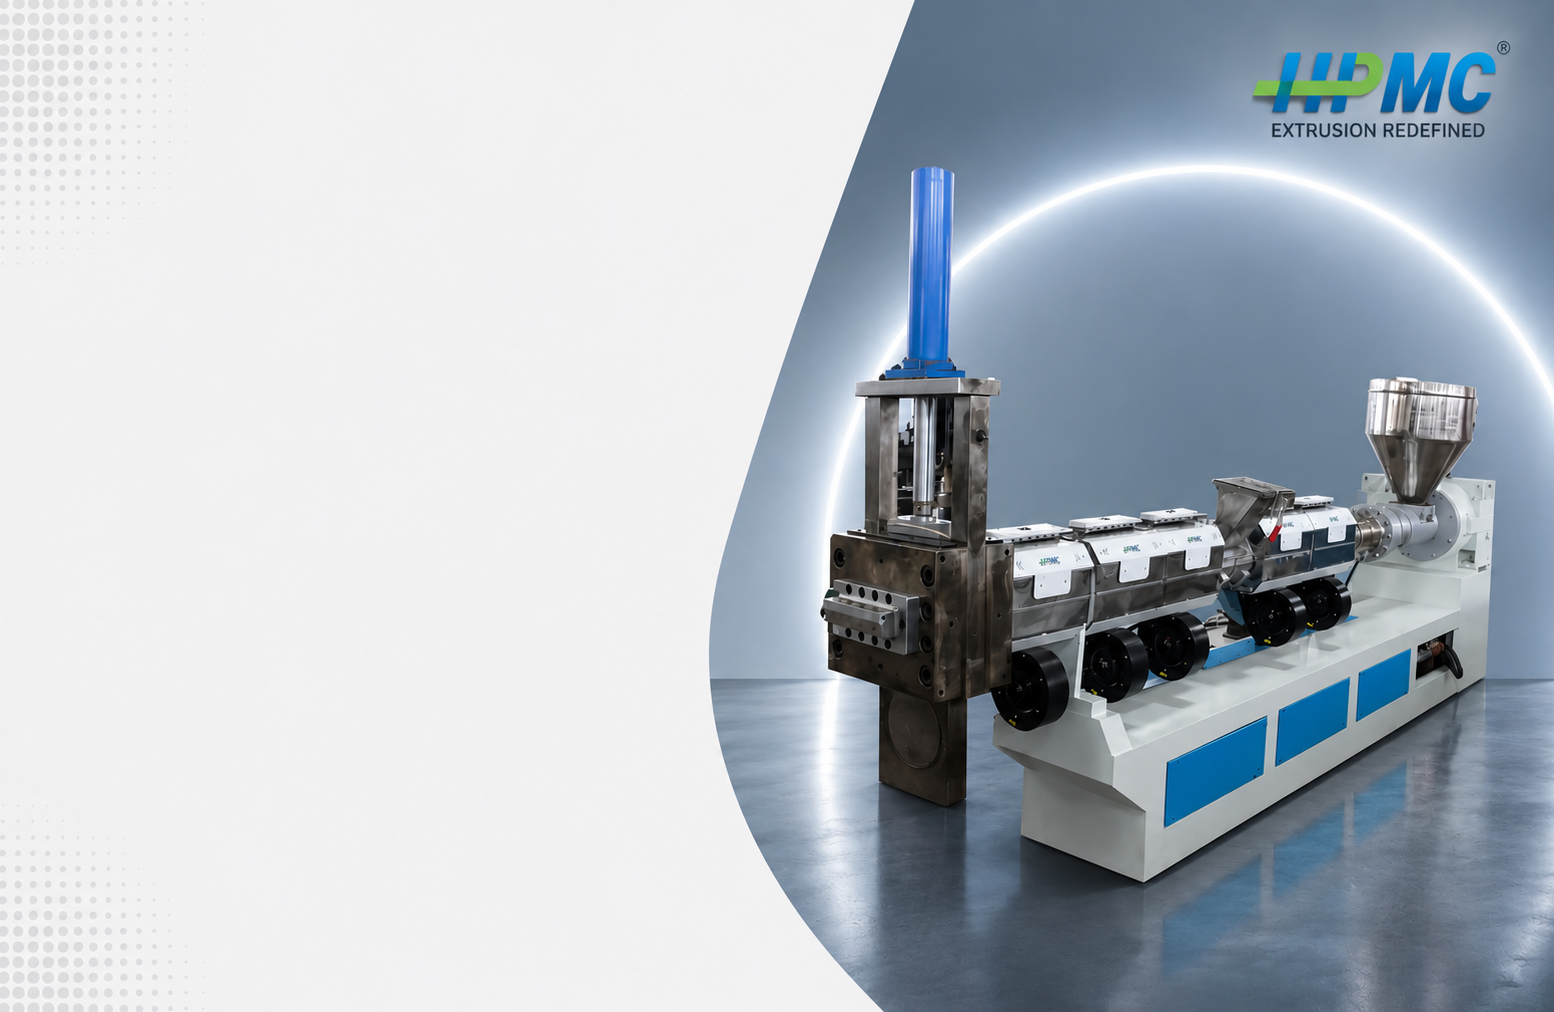
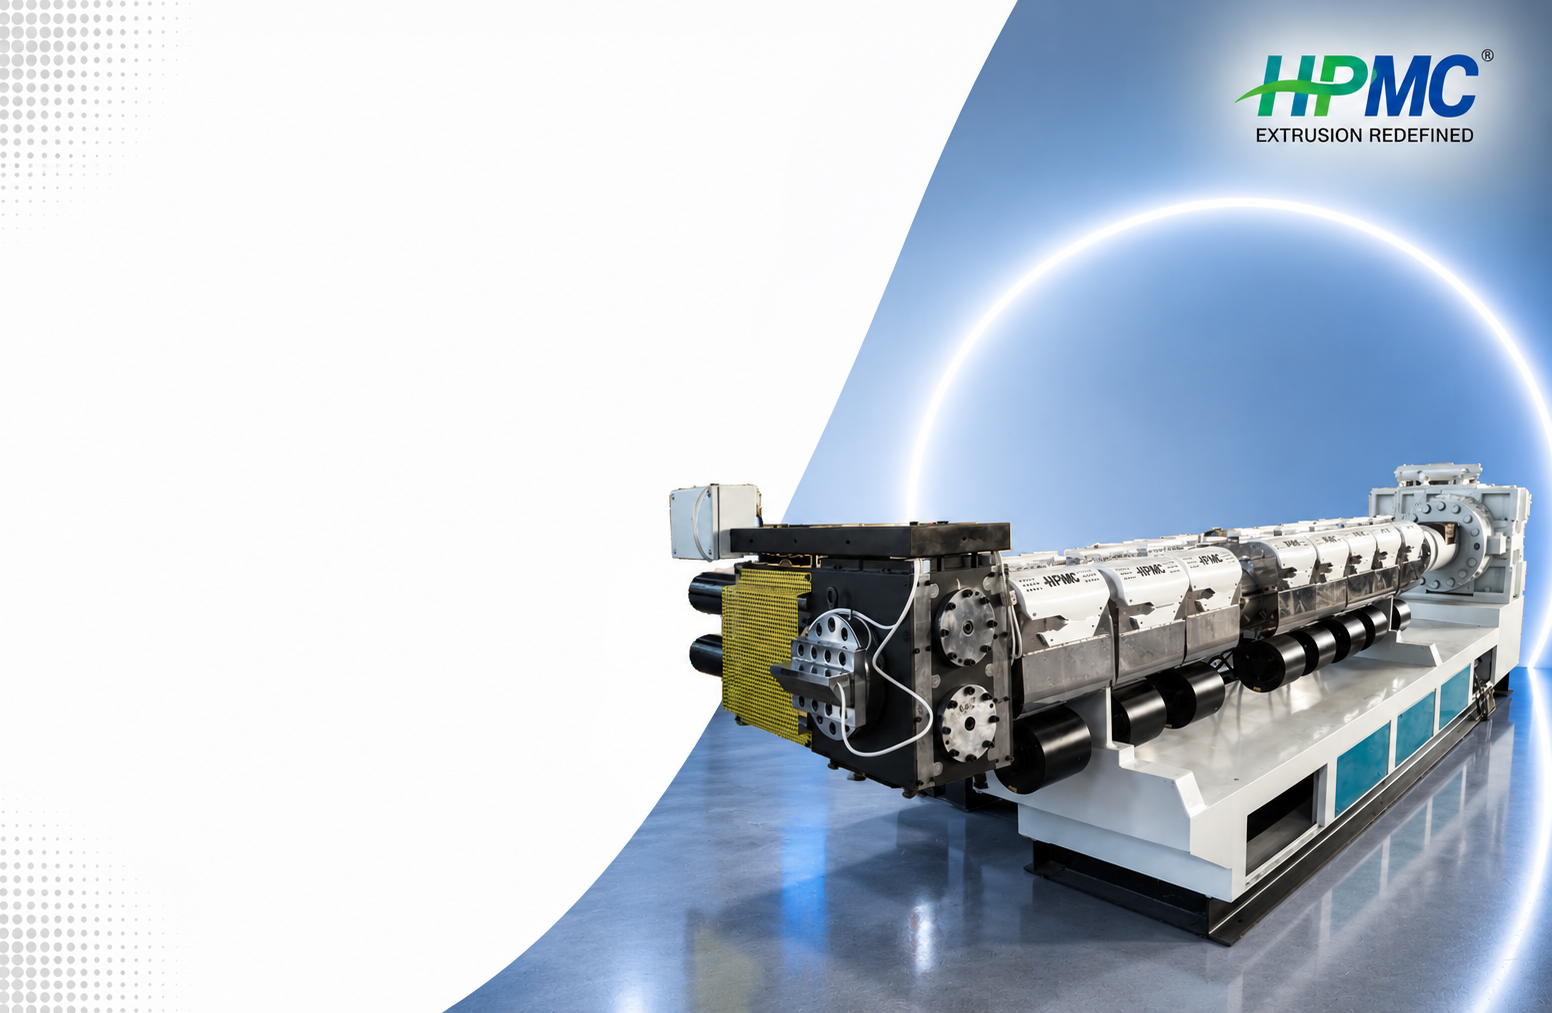
updated

diff --git a/frontend/app/components/Products.tsx b/frontend/app/components/Products.tsx
@@ -52,7 +52,7 @@ export default function ProductCarousel() {
     {
       id: 5,
       title: "Vented Recycling Plant",
-      image: "/products/VENTED-RECYCLING-PLANT-1-1.jpg",
+      image: "/products/vented.png",
       link: "/vented-recycling-plant",
       description:
         "Efficient plastic recycling system designed for processing plastic waste into premium-qualityreusable granules with effective moisture removal, degassing, and improved material properties.",
@@ -61,7 +61,7 @@ export default function ProductCarousel() {
     {
       id: 6,
       title: "Recycling Plant With Compactor",
-      image: "/products/recycling-plant-with-compacter.jpg",
+      image: "/products/recycling-plant-with-compacter.png",
       link: "/recycling-plant-with-compactor",
       description:
         "Integrated plastic recycling plant featuring an advanced compactor system for better material feeding, uniform melting, and enhanced recycling productivity.",
@@ -121,9 +121,9 @@ export default function ProductCarousel() {
           </span>
 
           <p className="mt-5 text-[15px] md:text-[17px] leading-8 text-[var(--text-secondary)] max-w-3xl">
-            We manufacture a comprehensive range of plastic extrusion machines designed to deliver
-precision, efficiency, and consistent production across multiple industrial applications.
-
+            We manufacture a comprehensive range of plastic extrusion machines
+            designed to deliver precision, efficiency, and consistent production
+            across multiple industrial applications.
           </p>
         </div>
       </div>

diff --git a/frontend/app/components/Navbar.tsx b/frontend/app/components/Navbar.tsx
@@ -265,13 +265,13 @@ const productsDataDesktop = [
   {
     name: "Vented Recycling Plant",
     category: "Plastic Recycling Plant",
-    image: "/products/VENTED-RECYCLING-PLANT-1-1.jpg",
+    image: "/products/vented.png",
     link: "/vented-recycling-plant",
   },
   {
     name: "Recycling Plant With Compactor",
     category: "Plastic Recycling Plant",
-    image: "/products/recycling-plant-with-compacter.jpg",
+    image: "/products/recycling-plant-with-compacter.png",
     link: "/recycling-plant-with-compactor",
   },
   {
@@ -283,7 +283,7 @@ const productsDataDesktop = [
   {
     name: "Compactor type Extruder",
     category: "Plastic Recycling Plant",
-    image: "/products/recycling-plant-with-compacter.jpg",
+    image: "/products/recycling-plant-with-compacter.png",
     link: "/compactor-type-extruder",
   },
 

diff --git a/frontend/app/compactor-type-extruder/page.tsx b/frontend/app/compactor-type-extruder/page.tsx
@@ -24,7 +24,10 @@ import { Autoplay } from "swiper/modules";
 import "swiper/css";
 import DemoPopup from "../components/PopupDemo";
 
-const galleryImages = ["/products/wpc/compactortypeextruder.png"];
+const galleryImages = [
+  "/products/recycling-plant-with-compacter.png",
+  "/products/wpc/compactortypeextruder.png",
+];
 
 export default function CompactorTypeExtruder() {
   const [openPopup, setOpenPopup] = useState(false);

diff --git a/frontend/app/two-stage-recycling-plant/page.tsx b/frontend/app/two-stage-recycling-plant/page.tsx
@@ -23,10 +23,7 @@ import { Autoplay } from "swiper/modules";
 import "swiper/css";
 import DemoPopup from "../components/PopupDemo";
 
-const galleryImages = [
-  "/products/plastic-recycling-plant/two-stage-recycling-plant/vented_type_extruder.jpg",
-  "/products/plastic-recycling-plant/two-stage-recycling-plant/2_stage.jpg",
-];
+const galleryImages = ["/products/conical-twin-screw-extruder.jpg"];
 
 const specifications = [
   {

diff --git a/frontend/app/recycling-plant-with-compactor/page.tsx b/frontend/app/recycling-plant-with-compactor/page.tsx
@@ -24,7 +24,7 @@ import "swiper/css";
 import DemoPopup from "../components/PopupDemo";
 
 const galleryImages = [
-  "/products/plastic-recycling-plant/Recycling plant with compactor/compacter.jpg",
+  "/products/recycling-plant-with-compacter.png",
   "/products/plastic-recycling-plant/Recycling plant with compactor/compacter_prd.jpg",
 ];
 
@@ -221,7 +221,7 @@ export default function RecyclingPlantWithCompactor() {
             Plastic Palletizing Plant -
             <span className="text-[var(--primary)]">
               {" "}
-              Vented Recycling Plant
+              Recycling Plant With Compactor
             </span>
           </h2>
           <div className="grid lg:grid-cols-2 gap-16 items-center">

diff --git a/frontend/app/vented-recycling-plant/page.tsx b/frontend/app/vented-recycling-plant/page.tsx
@@ -23,9 +23,7 @@ import { Autoplay } from "swiper/modules";
 import "swiper/css";
 import DemoPopup from "../components/PopupDemo";
 
-const galleryImages = [
-  "/products/plastic-recycling-plant/vented recycling plant/VENTED-RECYCLING-PLANT-1-1.jpg",
-];
+const galleryImages = ["/products/vented.png"];
 
 const faqData = [
   {